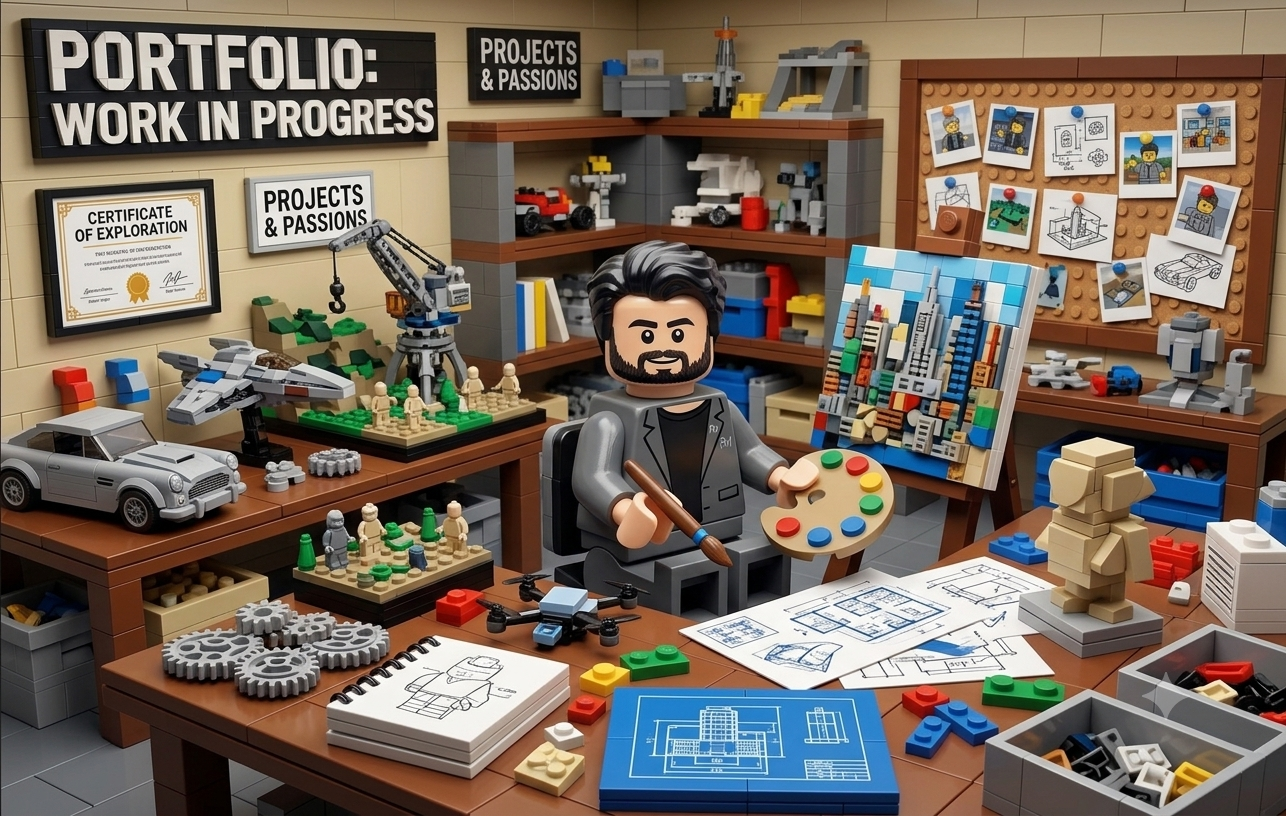
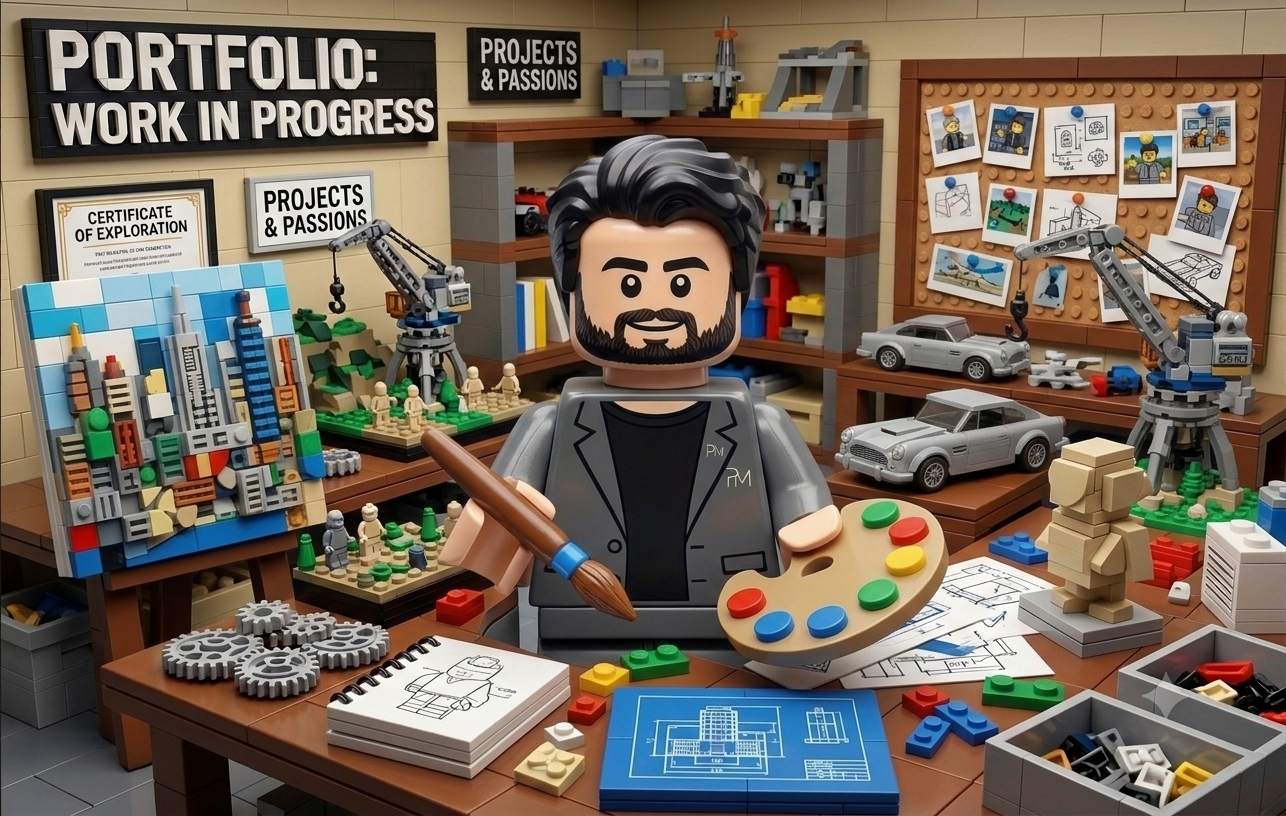
refactor: update game target color and message in BlackKnightPuzzle; add new images and expand contact section in index.html - AmpTrick v4.3

diff --git a/index.html b/index.html
@@ -185,10 +185,62 @@
                 </div>
               </div>
 
-            </section>
-          </div>
-        </div>
-      </div>
+              <!-- TRACK 4 -->
+              <div class="track-item" data-title="Reach Out" data-sub="Let's Connect & Liner Notes" data-img="reachout.PNG">
+                <div class="track-row">
+                  <div class="track-left">
+                    <div class="num-container">
+                      <span class="num">4</span>
+                      <span class="play-icon">▶</span>
+                    </div>
+                    <!-- Thumbnail Image Added Here -->
+                    <img src="reachout.PNG" alt="Reach Out Thumbnail" class="track-thumb">
+                    <div class="title-meta">
+                      <span class="title">Reach Out (Open Mic & Production Notes)</span>
+                      <span class="click-hint">Click to expand details</span>
+                    </div>
+                  </div>
+                  <div class="track-right">
+                    <div class="equalizer-icon">
+                      <span></span><span></span><span></span>
+                    </div>
+                    <span class="genre-pill">Collaboration - Disco</span>
+                  </div>
+                </div>
+
+                <div class="track-expanded-content">
+                  <div class="expanded-layout">
+                    <!-- Expanded Large Art -->
+                    <img src="reachout.PNG" alt="Reach Out Art" class="expanded-art">
+                    <div class="expanded-text">
+                      <h3 class="expanded-title">Let's Connect</h3>
+                      <p style="margin-bottom: 16px;">
+                        Open for new opportunities, technical discussions, or creative collaborations. Drop a line through any of the channels below:
+                      </p>
+                      
+                      <!-- Contact Buttons -->
+                      <div style="display: flex; gap: 10px; flex-wrap: wrap; margin-bottom: 24px;">
+                        <a href="mailto:hi@ajmansouri.tech?subject=New%20Message%20(Change%20Me...%20or%20Don%27t!)" class="launch-btn">📬 Send Email</a>
+                        <a href="https://linkedin.com/in/ahmed-mansouri" target="_blank" rel="noopener" class="launch-btn">👔 LinkedIn</a>
+                        <a href="https://github.com/ajmansouri" target="_blank" rel="noopener" class="launch-btn">💻 GitHub</a>
+                      </div>
+
+                      <hr style="border: 0; border-top: 1px solid rgba(255, 255, 255, 0.1); margin: 20px 0;">
+
+                      <!-- Liner Notes & Credits -->
+                      <h4 style="color: var(--accent); font-size: 0.95rem; text-transform: uppercase; letter-spacing: 1px; margin-bottom: 8px;">
+                        📋 Production Notes & Credits
+                      </h4>
+                      <p style="font-size: 0.9rem; line-height: 1.6; color: var(--text-sub);">
+                        <strong>Architected, Designed & Built by:</strong> AJ Mansouri <br>
+                        <strong>AI Collaboration:</strong> <br> 
+                        <em>Gemini AI</em> Brian storming, Code & image generation<br>
+                        <em>Microsoft Copilot</em> Brain Storming, image generation, domain set-up and site publication<br>
+                      </p>
+                    </div>
+                  </div>
+                </div>
+              </div>
 
       <!-- SECTION 1: GREATEST HITS -->
       <div id="section-1" class="content-section" style="display: none;">

diff --git a/Games/TheBlackKnight/BlackKnightPuzzle.js b/Games/TheBlackKnight/BlackKnightPuzzle.js
@@ -94,7 +94,7 @@ document.addEventListener('DOMContentLoaded', () => {
         startTimer();
         gameActive = true;
         isSolving = false;
-        messageDisplay.textContent = "Move the pieces to guide the Black Knight to the black square!";
+        messageDisplay.textContent = "Move the pieces to guide the Black Knight to the green square!";
     }
 
     function resetGame() {

diff --git a/Games/TheBlackKnight/BlackKnightPuzzle.html b/Games/TheBlackKnight/BlackKnightPuzzle.html
@@ -54,7 +54,7 @@
             </div>
         </div>
 
-        <p id="message">Move the pieces to guide the Black Knight to the black square!</p>
+        <p id="message">Move the pieces to guide the Black Knight to the green square!</p>
 
         <!-- Leaderboard Table -->
         <div class="leaderboard-section">

diff --git a/Games/TheBlackKnight/BlackKnightPuzzle.css b/Games/TheBlackKnight/BlackKnightPuzzle.css
@@ -191,7 +191,7 @@ h1:hover {
 }
 
 .square.target {
-    background-color: #000;
+    background-color: rgba(29, 185, 84, 0.3)!important;
     border: 2px solid gold;
 }
 
